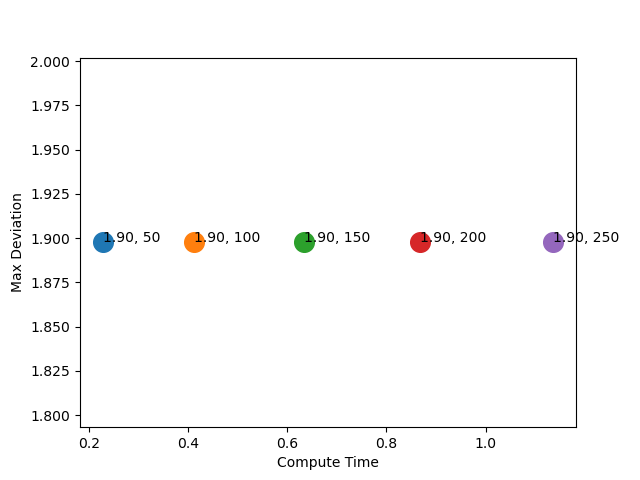
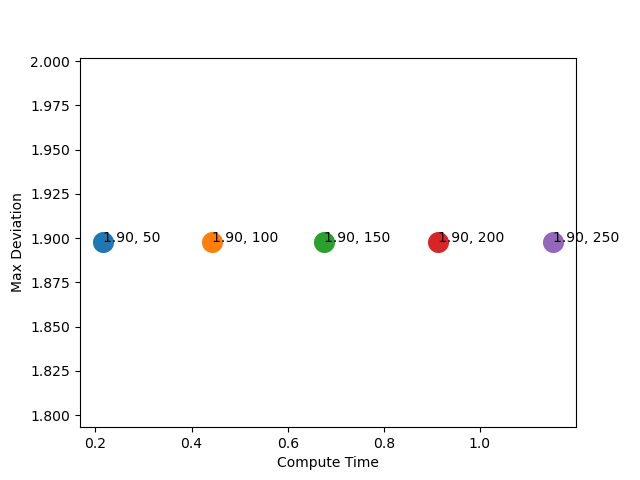
Updated experiments: timining info with multiple trials

diff --git a/src/RCCaseStudy.py b/src/RCCaseStudy.py
@@ -16,6 +16,7 @@ from lib.LQRSolver import *
 from lib.BoundedTree import *
 from lib.FSMBased import *
 import time
+import statistics as stat
 
 class ULSBased:
 
@@ -550,6 +551,8 @@ class CompScalability:
         initialSet=(C,V,P)
         p=Benchmarks.DC.A.shape[0]
 
+        TRIALS=10
+
         ulsGen=ULSGen(Benchmarks.DC.A,Benchmarks.DC.B,Benchmarks.DC.C,Benchmarks.DC.D,Benchmarks.DC.K,maxDeadline,methodName)
 
         # Using ULS method
@@ -558,13 +561,16 @@ class CompScalability:
         labels_ULS=[]
         uncertainMat=ulsGen.getUncertainMatrix()
         for T in range(timeSteps[0],timeSteps[1],timeSteps[2]):
-            time_taken_uls=time.time()
-            nominalSeqn=[1]*T
-            nominalReachSet=BoundedTree(Benchmarks.DC.A,Benchmarks.DC.B,Benchmarks.DC.C,Benchmarks.DC.D,Benchmarks.DC.K).reachSetHoldKill(initialSet,nominalSeqn)
-            deviation=Deviation(uncertainMat[0],uncertainMat[1],initialSet,T,nominalReachSet)
-            (reachORS,dList_ULS,maxT_ULS)=deviation.getDeviations(p)
-            time_taken_uls=time.time()-time_taken_uls
-            timeList_ULS.append(time_taken_uls)
+            tTmp=[]
+            for trial in range(TRIALS):
+                time_taken_uls=time.time()
+                nominalSeqn=[1]*T
+                nominalReachSet=BoundedTree(Benchmarks.DC.A,Benchmarks.DC.B,Benchmarks.DC.C,Benchmarks.DC.D,Benchmarks.DC.K).reachSetHoldKill(initialSet,nominalSeqn)
+                deviation=Deviation(uncertainMat[0],uncertainMat[1],initialSet,T,nominalReachSet)
+                (reachORS,dList_ULS,maxT_ULS)=deviation.getDeviations(p)
+                time_taken_uls=time.time()-time_taken_uls
+                tTmp.append(time_taken_uls)
+            timeList_ULS.append(stat.mean(tTmp))
             maxDevList_ULS.append(dList_ULS[maxT_ULS])
             labels_ULS.append(str("{:.2f}".format(dList_ULS[maxT_ULS]))+","+str(T))
 
@@ -580,13 +586,16 @@ class CompScalability:
         mList=[matList[1]]*maxDeadline
         automaton=(maxDeadline,hList,mList)
         for T in range(timeSteps[0],timeSteps[1],timeSteps[2]):
-            time_taken_fsm=time.time()
-            nominalSeqn=[1]*T
-            nominalReachSet=BoundedTree(Benchmarks.DC.A,Benchmarks.DC.B,Benchmarks.DC.C,Benchmarks.DC.D,Benchmarks.DC.K).reachSetHoldKill(initialSet,nominalSeqn)
-            rec=RecRel(automaton,initialSet,T,nominalReachSet)
-            stateList,dList_FSM,maxT_FSM=rec.getDeviations(p)
-            time_taken_fsm=time.time()-time_taken_fsm
-            timeList_FSM.append(time_taken_fsm)
+            tTmp=[]
+            for trial in range(TRIALS):
+                time_taken_fsm=time.time()
+                nominalSeqn=[1]*T
+                nominalReachSet=BoundedTree(Benchmarks.DC.A,Benchmarks.DC.B,Benchmarks.DC.C,Benchmarks.DC.D,Benchmarks.DC.K).reachSetHoldKill(initialSet,nominalSeqn)
+                rec=RecRel(automaton,initialSet,T,nominalReachSet)
+                stateList,dList_FSM,maxT_FSM=rec.getDeviations(p)
+                time_taken_fsm=time.time()-time_taken_fsm
+                tTmp.append(time_taken_fsm)
+            timeList_FSM.append(stat.mean(tTmp))
             maxDevList_FSM.append(dList_FSM[maxT_FSM])
             labels_FSM.append(str("{:.2f}".format(dList_FSM[maxT_FSM]))+", "+str(T))
 
@@ -602,20 +611,25 @@ class CompScalability:
         initialSet=(C,V,P)
         p=Benchmarks.DC.A.shape[0]
 
+        TRIALS=10
+
         # Using ULS method
         timeList_ULS=[]
         maxDevList_ULS=[]
         labels_ULS=[]
         for maxDeadline in range(deadlines[0],deadlines[1],deadlines[2]):
-            time_taken_uls=time.time()
-            ulsGen=ULSGen(Benchmarks.DC.A,Benchmarks.DC.B,Benchmarks.DC.C,Benchmarks.DC.D,Benchmarks.DC.K,maxDeadline,methodName)
-            uncertainMat=ulsGen.getUncertainMatrix()
-            nominalSeqn=[1]*T
-            nominalReachSet=BoundedTree(Benchmarks.DC.A,Benchmarks.DC.B,Benchmarks.DC.C,Benchmarks.DC.D,Benchmarks.DC.K).reachSetHoldKill(initialSet,nominalSeqn)
-            deviation=Deviation(uncertainMat[0],uncertainMat[1],initialSet,T,nominalReachSet)
-            (reachORS,dList_ULS,maxT_ULS)=deviation.getDeviations(p)
-            time_taken_uls=time.time()-time_taken_uls
-            timeList_ULS.append(time_taken_uls)
+            tTmp=[]
+            for trial in range(TRIALS):
+                time_taken_uls=time.time()
+                ulsGen=ULSGen(Benchmarks.DC.A,Benchmarks.DC.B,Benchmarks.DC.C,Benchmarks.DC.D,Benchmarks.DC.K,maxDeadline,methodName)
+                uncertainMat=ulsGen.getUncertainMatrix()
+                nominalSeqn=[1]*T
+                nominalReachSet=BoundedTree(Benchmarks.DC.A,Benchmarks.DC.B,Benchmarks.DC.C,Benchmarks.DC.D,Benchmarks.DC.K).reachSetHoldKill(initialSet,nominalSeqn)
+                deviation=Deviation(uncertainMat[0],uncertainMat[1],initialSet,T,nominalReachSet)
+                (reachORS,dList_ULS,maxT_ULS)=deviation.getDeviations(p)
+                time_taken_uls=time.time()-time_taken_uls
+                tTmp.append(time_taken_uls)
+            timeList_ULS.append(stat.mean(tTmp))
             maxDevList_ULS.append(dList_ULS[maxT_ULS])
             labels_ULS.append(str("{:.2f}".format(dList_ULS[maxT_ULS]))+","+str(maxDeadline))
 
@@ -627,18 +641,21 @@ class CompScalability:
         maxDevList_FSM=[]
         labels_FSM=[]
         for maxDeadline in range(deadlines[0],deadlines[1],deadlines[2]):
-            time_taken_fsm=time.time()
-            ulsGen=ULSGen(Benchmarks.DC.A,Benchmarks.DC.B,Benchmarks.DC.C,Benchmarks.DC.D,Benchmarks.DC.K,maxDeadline,methodName)
-            matList=ulsGen.getAllPossibleMatrices()
-            hList=[matList[0]]*(maxDeadline+1)
-            mList=[matList[1]]*maxDeadline
-            automaton=(maxDeadline,hList,mList)
-            nominalSeqn=[1]*T
-            nominalReachSet=BoundedTree(Benchmarks.DC.A,Benchmarks.DC.B,Benchmarks.DC.C,Benchmarks.DC.D,Benchmarks.DC.K).reachSetHoldKill(initialSet,nominalSeqn)
-            rec=RecRel(automaton,initialSet,T,nominalReachSet)
-            stateList,dList_FSM,maxT_FSM=rec.getDeviations(p)
-            time_taken_fsm=time.time()-time_taken_fsm
-            timeList_FSM.append(time_taken_fsm)
+            tTmp=[]
+            for trial in range(TRIALS):
+                time_taken_fsm=time.time()
+                ulsGen=ULSGen(Benchmarks.DC.A,Benchmarks.DC.B,Benchmarks.DC.C,Benchmarks.DC.D,Benchmarks.DC.K,maxDeadline,methodName)
+                matList=ulsGen.getAllPossibleMatrices()
+                hList=[matList[0]]*(maxDeadline+1)
+                mList=[matList[1]]*maxDeadline
+                automaton=(maxDeadline,hList,mList)
+                nominalSeqn=[1]*T
+                nominalReachSet=BoundedTree(Benchmarks.DC.A,Benchmarks.DC.B,Benchmarks.DC.C,Benchmarks.DC.D,Benchmarks.DC.K).reachSetHoldKill(initialSet,nominalSeqn)
+                rec=RecRel(automaton,initialSet,T,nominalReachSet)
+                stateList,dList_FSM,maxT_FSM=rec.getDeviations(p)
+                time_taken_fsm=time.time()-time_taken_fsm
+                tTmp.append(time_taken_fsm)
+            timeList_FSM.append(stat.mean(tTmp))
             maxDevList_FSM.append(dList_FSM[maxT_FSM])
             labels_FSM.append(str("{:.2f}".format(dList_FSM[maxT_FSM]))+", "+str(maxDeadline))
 
@@ -654,5 +671,5 @@ if False:
     CompStability.isSafe()
 
 if True:
-    CompScalability.timeH()
+    #CompScalability.timeH()
     CompScalability.maxDeadlineVary()
